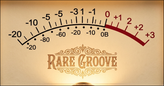
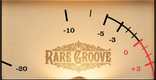
fix: VU meter with properly sized vu-l/vu-r images (156x80px) and CSS background

diff --git a/src/components/VUMeter.jsx b/src/components/VUMeter.jsx
@@ -1,4 +1,6 @@
 import { useRef, useEffect, useState, useCallback } from 'react';
+import vuLImg from '../assets/images/vu/vu-l.png';
+import vuRImg from '../assets/images/vu/vu-r.png';
 
 const STORAGE_KEY = 'raregroove_vu_calibration';
 
@@ -18,7 +20,6 @@ const DEFAULTS = {
 
 export function VUMeter({ vuMeterData, isPlaying }) {
   const [showCalibration, setShowCalibration] = useState(false);
-  const [bgImage, setBgImage] = useState(null);
   const [calibration, setCalibration] = useState(() => {
     const saved = localStorage.getItem(STORAGE_KEY);
     if (saved) {
@@ -37,7 +38,7 @@ export function VUMeter({ vuMeterData, isPlaying }) {
     R: new Float32Array(ANSI.RMS_FRAMES),
     idx: 0,
   });
-  const targetRef = useRef({ L: 0, R: 0 });
+  const targetRef = useRef({ L: 0, R: 0   });
 
   const canvasLRef = useRef(null);
   const canvasRRef = useRef(null);
@@ -45,7 +46,6 @@ export function VUMeter({ vuMeterData, isPlaying }) {
   const lastTimeRef = useRef(null);
   const calRef = useRef(calibration);
   const isPlayingRef = useRef(isPlaying);
-  const bgImageRef = useRef(null);
 
   useEffect(() => {
     calRef.current = calibration;
@@ -54,20 +54,6 @@ export function VUMeter({ vuMeterData, isPlaying }) {
   useEffect(() => {
     isPlayingRef.current = isPlaying;
   }, [isPlaying]);
-
-  useEffect(() => {
-    const img = new Image();
-    img.onload = () => {
-      setBgImage(img);
-      bgImageRef.current = img;
-      console.log('[VUMeter] Fundo carregado!', img.src);
-    };
-    img.onerror = (e) => {
-      console.warn('[VUMeter] Fundo não disponível, usando fallback');
-      setBgImage(null);
-    };
-    img.src = '/images/vu/base.png';
-  }, []);
 
   useEffect(() => {
     const setupCanvas = (canvas) => {
@@ -107,19 +93,12 @@ export function VUMeter({ vuMeterData, isPlaying }) {
     return ball.pos;
   };
 
-  const drawFrame = (canvas, posNorm, bgImg) => {
+  const drawNeedle = (canvas, posNorm) => {
     const ctx = canvas.getContext('2d');
     const W = canvas.width;
     const H = canvas.height;
 
     ctx.clearRect(0, 0, W, H);
-
-    if (bgImg && bgImg.complete) {
-      ctx.drawImage(bgImg, 0, 0, W, H);
-    } else {
-      ctx.fillStyle = '#1a1510';
-      ctx.fillRect(0, 0, W, H);
-    }
 
     const cx = W * 0.5;
     const cy = H * 1.18;
@@ -202,8 +181,8 @@ export function VUMeter({ vuMeterData, isPlaying }) {
       const posL = stepBall('L', targetL, dt);
       const posR = stepBall('R', targetR, dt);
 
-      drawFrame(canvasL, posL, bgImageRef.current);
-      drawFrame(canvasR, posR, bgImageRef.current);
+      drawNeedle(canvasL, posL);
+      drawNeedle(canvasR, posR);
 
       animationRef.current = requestAnimationFrame(animate);
     };
@@ -215,15 +194,31 @@ export function VUMeter({ vuMeterData, isPlaying }) {
         cancelAnimationFrame(animationRef.current);
       }
     };
-  }, [vuMeterData, isPlaying, bgImage]);
+  }, [vuMeterData, isPlaying]);
 
   return (
     <div className="w-full">
       <div className="flex items-end justify-center gap-2 mb-1">
-        <span className="text-[12px] font-black text-yellow-600 tracking-wider">L</span>
-        <canvas ref={canvasLRef} className="w-[156px] h-[80px]" />
-        <canvas ref={canvasRRef} className="w-[156px] h-[80px]" />
-        <span className="text-[12px] font-black text-yellow-600 tracking-wider">R</span>
+        <span className="text-[12px] font-black text-yellow-600 tracking-wider z-10">L</span>
+        <canvas 
+          ref={canvasLRef} 
+          className="w-[156px] h-[80px]"
+          style={{ 
+            backgroundImage: `url(${vuLImg})`,
+            backgroundSize: '100% 100%',
+            backgroundColor: 'transparent'
+          }}
+        />
+        <canvas 
+          ref={canvasRRef} 
+          className="w-[156px] h-[80px]"
+          style={{ 
+            backgroundImage: `url(${vuRImg})`,
+            backgroundSize: '100% 100%',
+            backgroundColor: 'transparent'
+          }}
+        />
+        <span className="text-[12px] font-black text-yellow-600 tracking-wider z-10">R</span>
       </div>
 
       <div className="text-center">
